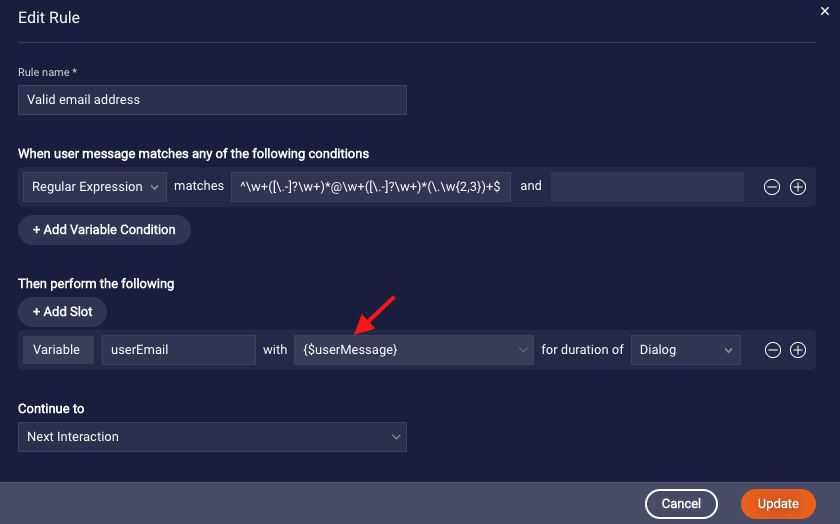
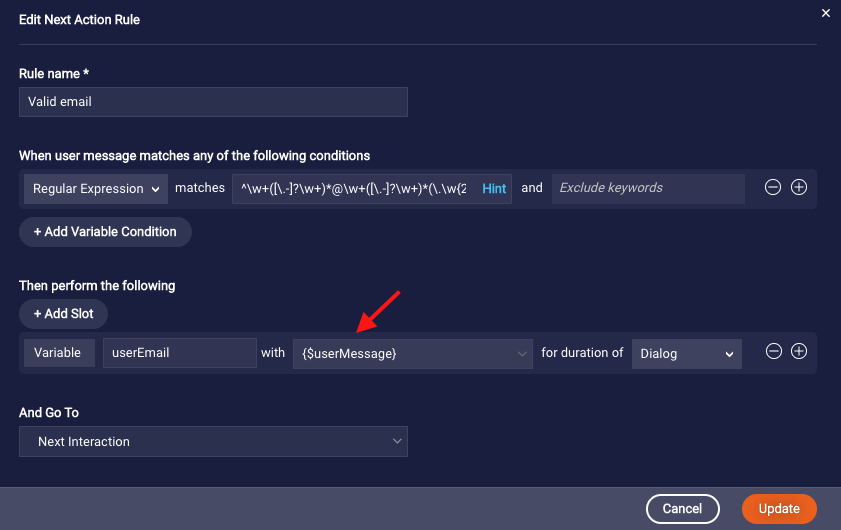
Update topic for Dialog Editor 2.0

diff --git a/pages/documents/ConversationalAI/ConversationBuilder/variablesAndSlots.md b/pages/documents/ConversationalAI/ConversationBuilder/variablesAndSlots.md
@@ -11,7 +11,7 @@ permalink: conversation-builder-variables-slots.html
 indicator: both
 ---
 
-In the Interaction Details [Response Match & Actions](conversation-builder-conversation-builder-response-match-actions.html) settings, you can assign various data points to either Slots or Variables. Both are useful in [API Integrations](conversation-builder-integrations-api-integrations.html).
+In the [custom rules](conversation-builder-interactions-configuration-next-action.html#custom-rules) of an interaction, you can assign various data points to either slots or variables. Both are useful in [API integrations](conversation-builder-integrations-api-integrations.html).
 
 ### Displaying data to the user
 
@@ -39,7 +39,7 @@ The most common use case for variables is storing user responses to [questions](
 
 Frequently you will want to capture what was just said by the user as the value of a variable. You can use `{$userMessage}` to do this, for example:
 
-<img class="fancyimage" width="800" src="img/ConvoBuilder/storeUserResponse.png">
+<img class="fancyimage" width="700" src="img/ConvoBuilder/storeUserResponse.png">
 
 You can also use `{$query}` in the same way; it works like `{$userMessage}`.
 
@@ -59,11 +59,11 @@ For example, if you add a question interaction "what type of shoes are you looki
 
 #### Adding a slot
 
-To configure a slot, simply click the interaction where you'd like to look for entities in the user's input (like a multiple choice question, for example), and go to User Response in the middle of the Interaction Details panel. From there, click the blue **+** icon right to the right of Slot.
+To configure a slot, select the interaction where you'd like to look for entities in the user's input (like a multiple choice question, for example). Then add a custom rule. In the **Add Next Action Rule** dialog box, click **+Add Slot**.
 
-In the menu which opens, first assign the slot a name by filling in the "Name" input field. **We recommend using standard naming conventions for slots. The slot name is later used to refer to and access the data which the slot contains**. Then, look for a pre-configured entity (which you should have set up for your domain previously) by typing in first the "@" character and then the name of your desired entity in the "Value" input field to the right of the Name input field.
+<img class="fancyimage" width="700" src="img/ConvoBuilder/slotAdd.png">
 
-Lastly, decide how long you'd like the slot's data to be kept for. You can set this by using the "Duration" dropdown menu on the right hand side. The dropdown provides four options:
+Enter a slot name. **We recommend using standard naming conventions for slots. The slot name is later used to refer to and access the data that the slot contains**. Then, for the value field, look for a pre-configured entity (which you should have set up for your domain previously) by typing in first the "@" character and then the name of your desired entity. Lastly, decide how long you'd like the slot's data to be kept for, i.e., the duration. There are four options:
 
 * Request - the slot's data will only be saved for that particular use of the slot. Only useful if the next question in the tree depends on the slot's data.
 
@@ -80,7 +80,9 @@ Lastly, decide how long you'd like the slot's data to be kept for. You can set t
 If your bot asked the user "which animal do you like?" and the user answered "dogs" or something similar, the slot for the entity `animal` would be populated with their answer. The bot would then respond with "You answered: dogs!" populating the code above with the user's reply.
 
 #### Slot filling with multi-entity extraction
-Slot-filling becomes especially useful when mining the entities that make up a user's intent to pre-populate your list of questions, and streamline the data collection process. 
+
+Slot-filling becomes especially useful when mining the entities that make up a user's intent to pre-populate your list of questions, and streamline the data collection process.
+ 
 1. Create a [new dialog](conversation-builder-dialogs-dialog-basics.html#create-a-new-dialog) and associate an [intent from your domain](conversation-builder-intent-builder-overview.html) as the dialog starter. For this example we will create the dialog `ordering` with the domain intent `order item`.
 2. Now, devise a few [entities](intent-builder-entities.html) that will be captured in our intent. For this example, we are going to create an entity for `color` with the values `blue, white, and red`, one for `items` with `pants, shoes, shirt, underwear`. and finally, one for `sizes` with the values `small, medium, and large`. Before moving on, [update and train](intent-builder-domains.html#train-a-liveperson-nlu-v2-domain) the `ordering` intent with some representative training phrases that contain these entities.
 3. Next we will create the [questions](conversation-builder-interactions-questions.html#types-of-questions) our dialog will ask. You should add one question interaction per slot that you are looking to fill. Using [NLU Assist](conversation-builder-nlu-assist.html#assigning-an-intent-to-an-interaction), assign your entities to the relevant questions.
@@ -106,6 +108,6 @@ If a user manages to express all the slots as part of their intent query, it wil
 
 ### When to use variables vs slots
 
-Variables are the default storage unit of Conversation Builder, while slots are a special type of variable. The only reason to favor Slots is if you need extra functionality that is linked to entities or if entities will be used in an API Integration catalog search, for example.
+Variables are the default storage unit of Conversation Builder, while slots are a special type of variable. The only reason to favor slots is if you need extra functionality that is linked to entities or if entities will be used in an API Integration catalog search, for example.
 
 When in doubt, it is best to use variables. The [NLU Assist](conversation-builder-nlu-assist.html) tool will help to display when slots are most useful.
